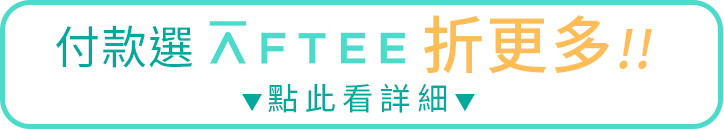
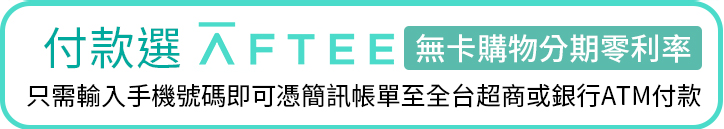
20201113_delete AFTEE_2

diff --git a/index.html b/index.html
@@ -192,9 +192,6 @@
                     </div>
                     <div class="afteebox">
                         <img src="./img/AFTEE_1.jpg" style="width:45%;" class="mb-2 anniversary_1" alt="">
-                        <a href="#size">
-                            <img src="./img/AFTEE_2.jpg" style="width:45%;" class="mb-5 anniversary_2" alt="">
-                        </a>
                     </div>
                     <img src="./img/06.jpg" style="width:70%;" alt="">
                     <img src="./img/07.jpg" style="width:70%;" alt="">
@@ -207,9 +204,6 @@
                     </div>
                     <div class="afteebox">
                         <img src="./img/AFTEE_1.jpg" style="width:45%;" class="mb-2 anniversary_1" alt="">
-                        <a href="#size">
-                            <img src="./img/AFTEE_2.jpg" style="width:45%;" class="mb-5 anniversary_2" alt="">
-                        </a>
                     </div>
                     <img src="./img/10.jpg" style="width:70%;" alt="">
                     <img src="./img/11.jpg" style="width:70%;" alt="">
@@ -223,9 +217,6 @@
                     </div>
                     <div class="afteebox">
                         <img src="./img/AFTEE_1.jpg" style="width:45%;" class="mb-2 anniversary_1" alt="">
-                        <a href="#size">
-                            <img src="./img/AFTEE_2.jpg" style="width:45%;" class="mb-5 anniversary_2" alt="">
-                        </a>
                     </div>
                     <img src="./img/15.jpg" style="width:70%;" alt="">
                     <img src="./img/16.jpg" style="width:45%;" alt="">
@@ -245,9 +236,6 @@
                     </div>
                     <div class="afteebox">
                         <img src="./img/AFTEE_1.jpg" style="width:90%;" class="mb-2 anniversary_1" alt="">
-                        <a href="#size">
-                            <img src="./img/AFTEE_2.jpg" style="width:90%;" class="mb-5 anniversary_2" alt="">
-                        </a>
                     </div>
                     <img src="./img/SP/SP_06.jpg" alt="">
                     <img src="./img/SP/SP_07.jpg" alt="">
@@ -263,9 +251,6 @@
                     </div>
                     <div class="afteebox">
                         <img src="./img/AFTEE_1.jpg" style="width:90%;" class="mb-2 anniversary_1" alt="">
-                        <a href="#size">
-                            <img src="./img/AFTEE_2.jpg" style="width:90%;" class="mb-5 anniversary_2" alt="">
-                        </a>
                     </div>
                     <img src="./img/SP/SP_10.jpg" alt="">
                     <img src="./img/SP/SP_11.jpg" alt="">
@@ -283,9 +268,6 @@
                     </div>
                     <div class="afteebox">
                         <img src="./img/AFTEE_1.jpg" style="width:90%;" class="mb-2 anniversary_1" alt="">
-                        <a href="#size">
-                            <img src="./img/AFTEE_2.jpg" style="width:90%;" class="mb-5 anniversary_2" alt="">
-                        </a>
                     </div>
                     <img src="./img/SP/SP_16.jpg" alt="">
                     <img src="./img/SP/SP_17.jpg" alt="">

diff --git a/js/all.js b/js/all.js
@@ -28,9 +28,9 @@ $(document).ready(function () {
     }
     
     //週年慶活動辦法下拉選單
-    $(".anniversary_2").hide();
-    $('.anniversary_1').click(function (e) { 
-        e.preventDefault();
-        $(".anniversary_2").toggle();
-    });
+    // $(".anniversary_2").hide();
+    // $('.anniversary_1').click(function (e) { 
+    //     e.preventDefault();
+    //     $(".anniversary_2").toggle();
+    // });
 });
